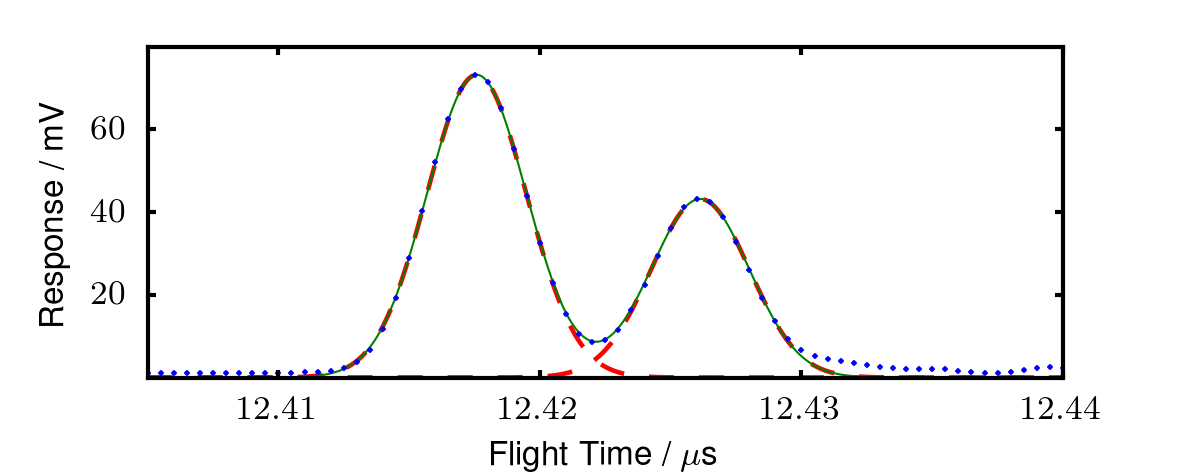
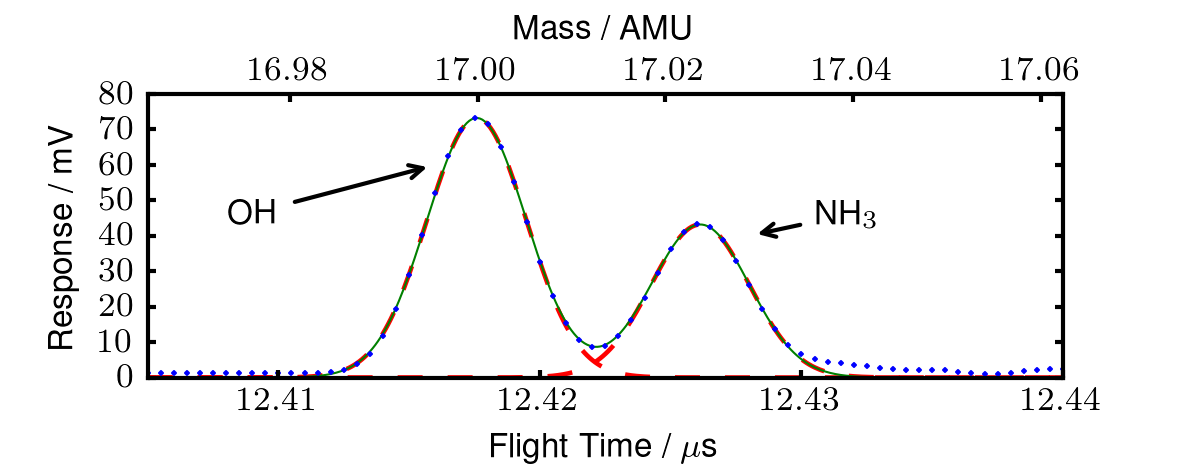
Much improved figure of the double peak fit

diff --git a/python_figures/ammonia_OH_gauss_fit.py b/python_figures/ammonia_OH_gauss_fit.py
@@ -8,6 +8,12 @@ import numpy as np
 import MySQLdb
 import sys
 
+def TimeToMass(time):
+    #time = 2.97277909899 * mass^0.499352719883
+    corr_time = time - 0.183  #Approximate delay
+    mass = (corr_time / 2.97277909899)**(1.0/0.499352719883)
+    return mass
+
 matplotlib.rc('text',usetex=True) # Magic fix for the font warnings
 
 try:
@@ -20,6 +26,7 @@ cursor = db.cursor()
 
 fig = plt.figure()
 fig.subplots_adjust(bottom=0.2) # Make room for x-label
+fig.subplots_adjust(top=0.8) # Make room for extra x-label
 ratio = 0.4                     # This figure should be very wide to span two columns
 fig_width = 10
 fig_width = fig_width /2.54     # width in cm converted to inches
@@ -80,13 +87,30 @@ for mass in masses:
 
 axis.plot(X_range,fit[0]+fit[1],'g-',linewidth=0.5)
 axis.plot(X_values,Y_values,'b.',markersize=1.5)
-axis.tick_params(direction='in', length=2, width=1, colors='k',labelsize=8,axis='both',pad=5)
+axis.tick_params(direction='in', length=2, width=1, colors='k',labelsize=8,axis='both',pad=3)
 axis.set_yticks((20,40,60))    
 axis.set_xticks((12.41,12.42,12.43,12.44))    
 axis.ticklabel_format(useOffset=False)
 axis.set_xlim(12.405,12.44)
 axis.set_ylabel('Response / mV', fontsize=8)
 axis.set_xlabel('Flight Time / $\mu$s', fontsize=8)
+
+
+arrow = dict(facecolor='black',arrowstyle='->')
+font = 8
+axis.annotate('OH', xy=(12.416, 60),  xycoords='data', xytext=(12.41, 50), textcoords='data', arrowprops=arrow, horizontalalignment='right', verticalalignment='top',fontsize=font,)
+axis.annotate('NH$_3$', xy=(12.428, 40),  xycoords='data', xytext=(12.433, 50), textcoords='data', arrowprops=arrow, horizontalalignment='right', verticalalignment='top',fontsize=font,)
+
+
+
+axis3 = axis.twiny()
+axis3.plot(TimeToMass(X_range),X_range*0,'w-',linewidth=0) #Hack to create an invisible set on the extra x-axis
+axis3.set_xlim(TimeToMass(12.405),TimeToMass(12.44))
+#axis3.set_xticks((12.41,12.42,12.43,12.44))    
+axis3.set_xlabel('Mass / AMU', fontsize=8)
+axis3.tick_params(direction='in', length=2, width=1, colors='k',labelsize=8,axis='both',pad=3)
+axis3.ticklabel_format(useOffset=False)
+
 
 #plt.tight_layout()
 #plt.show()
